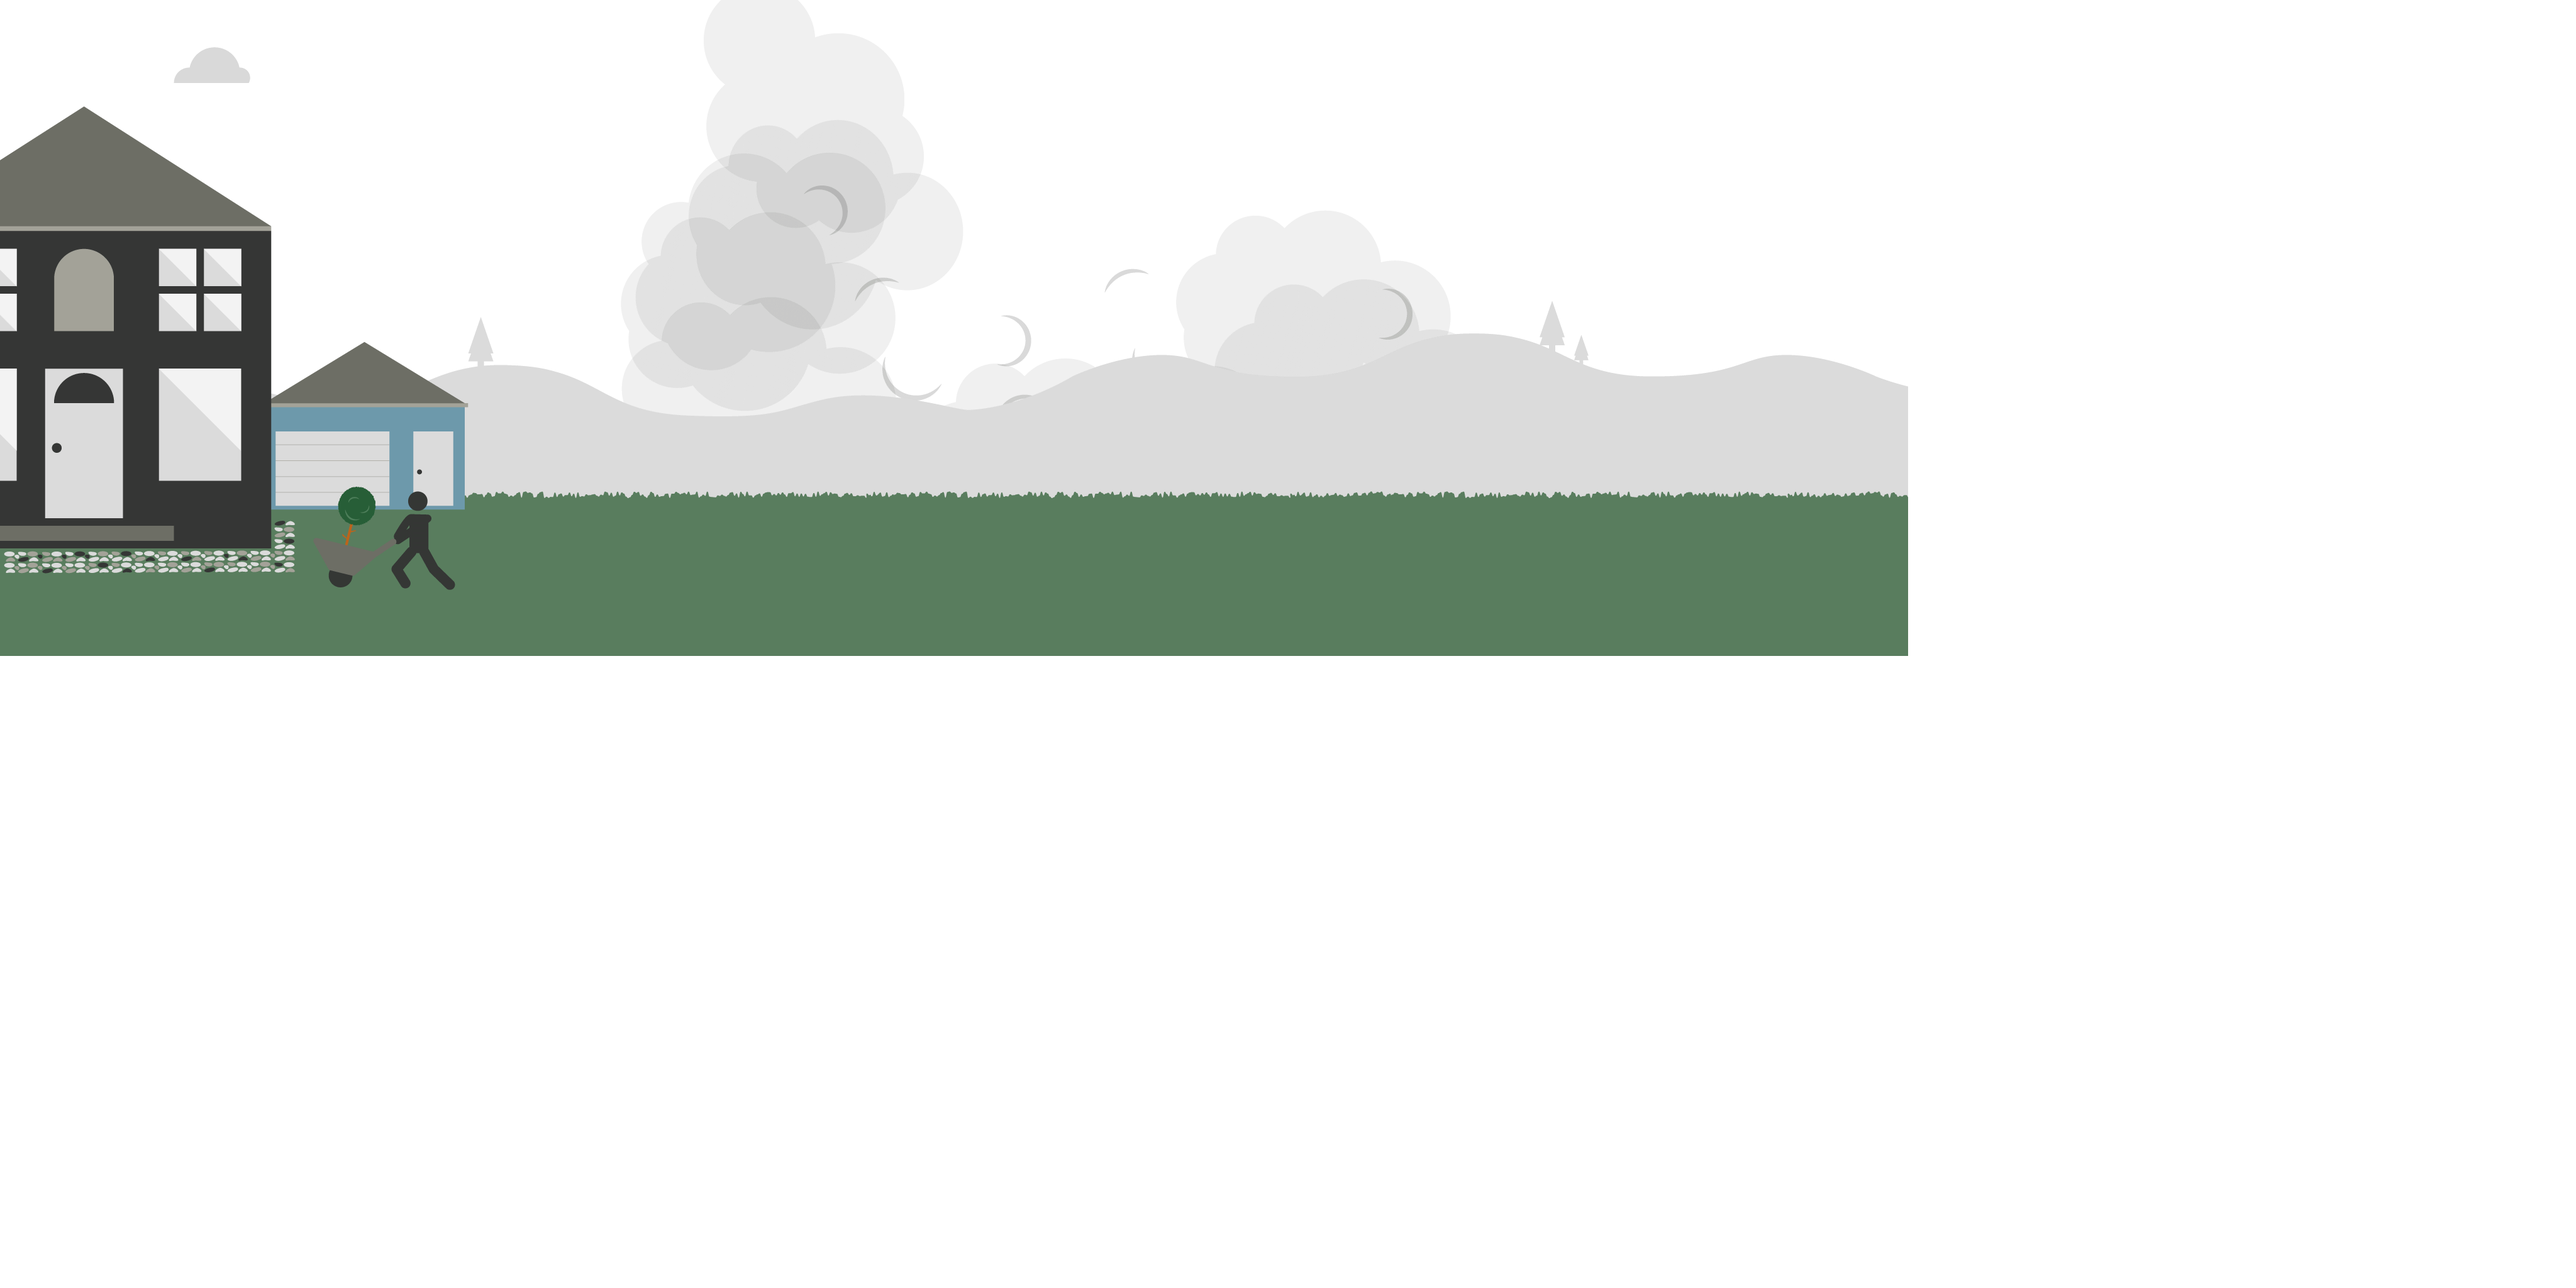
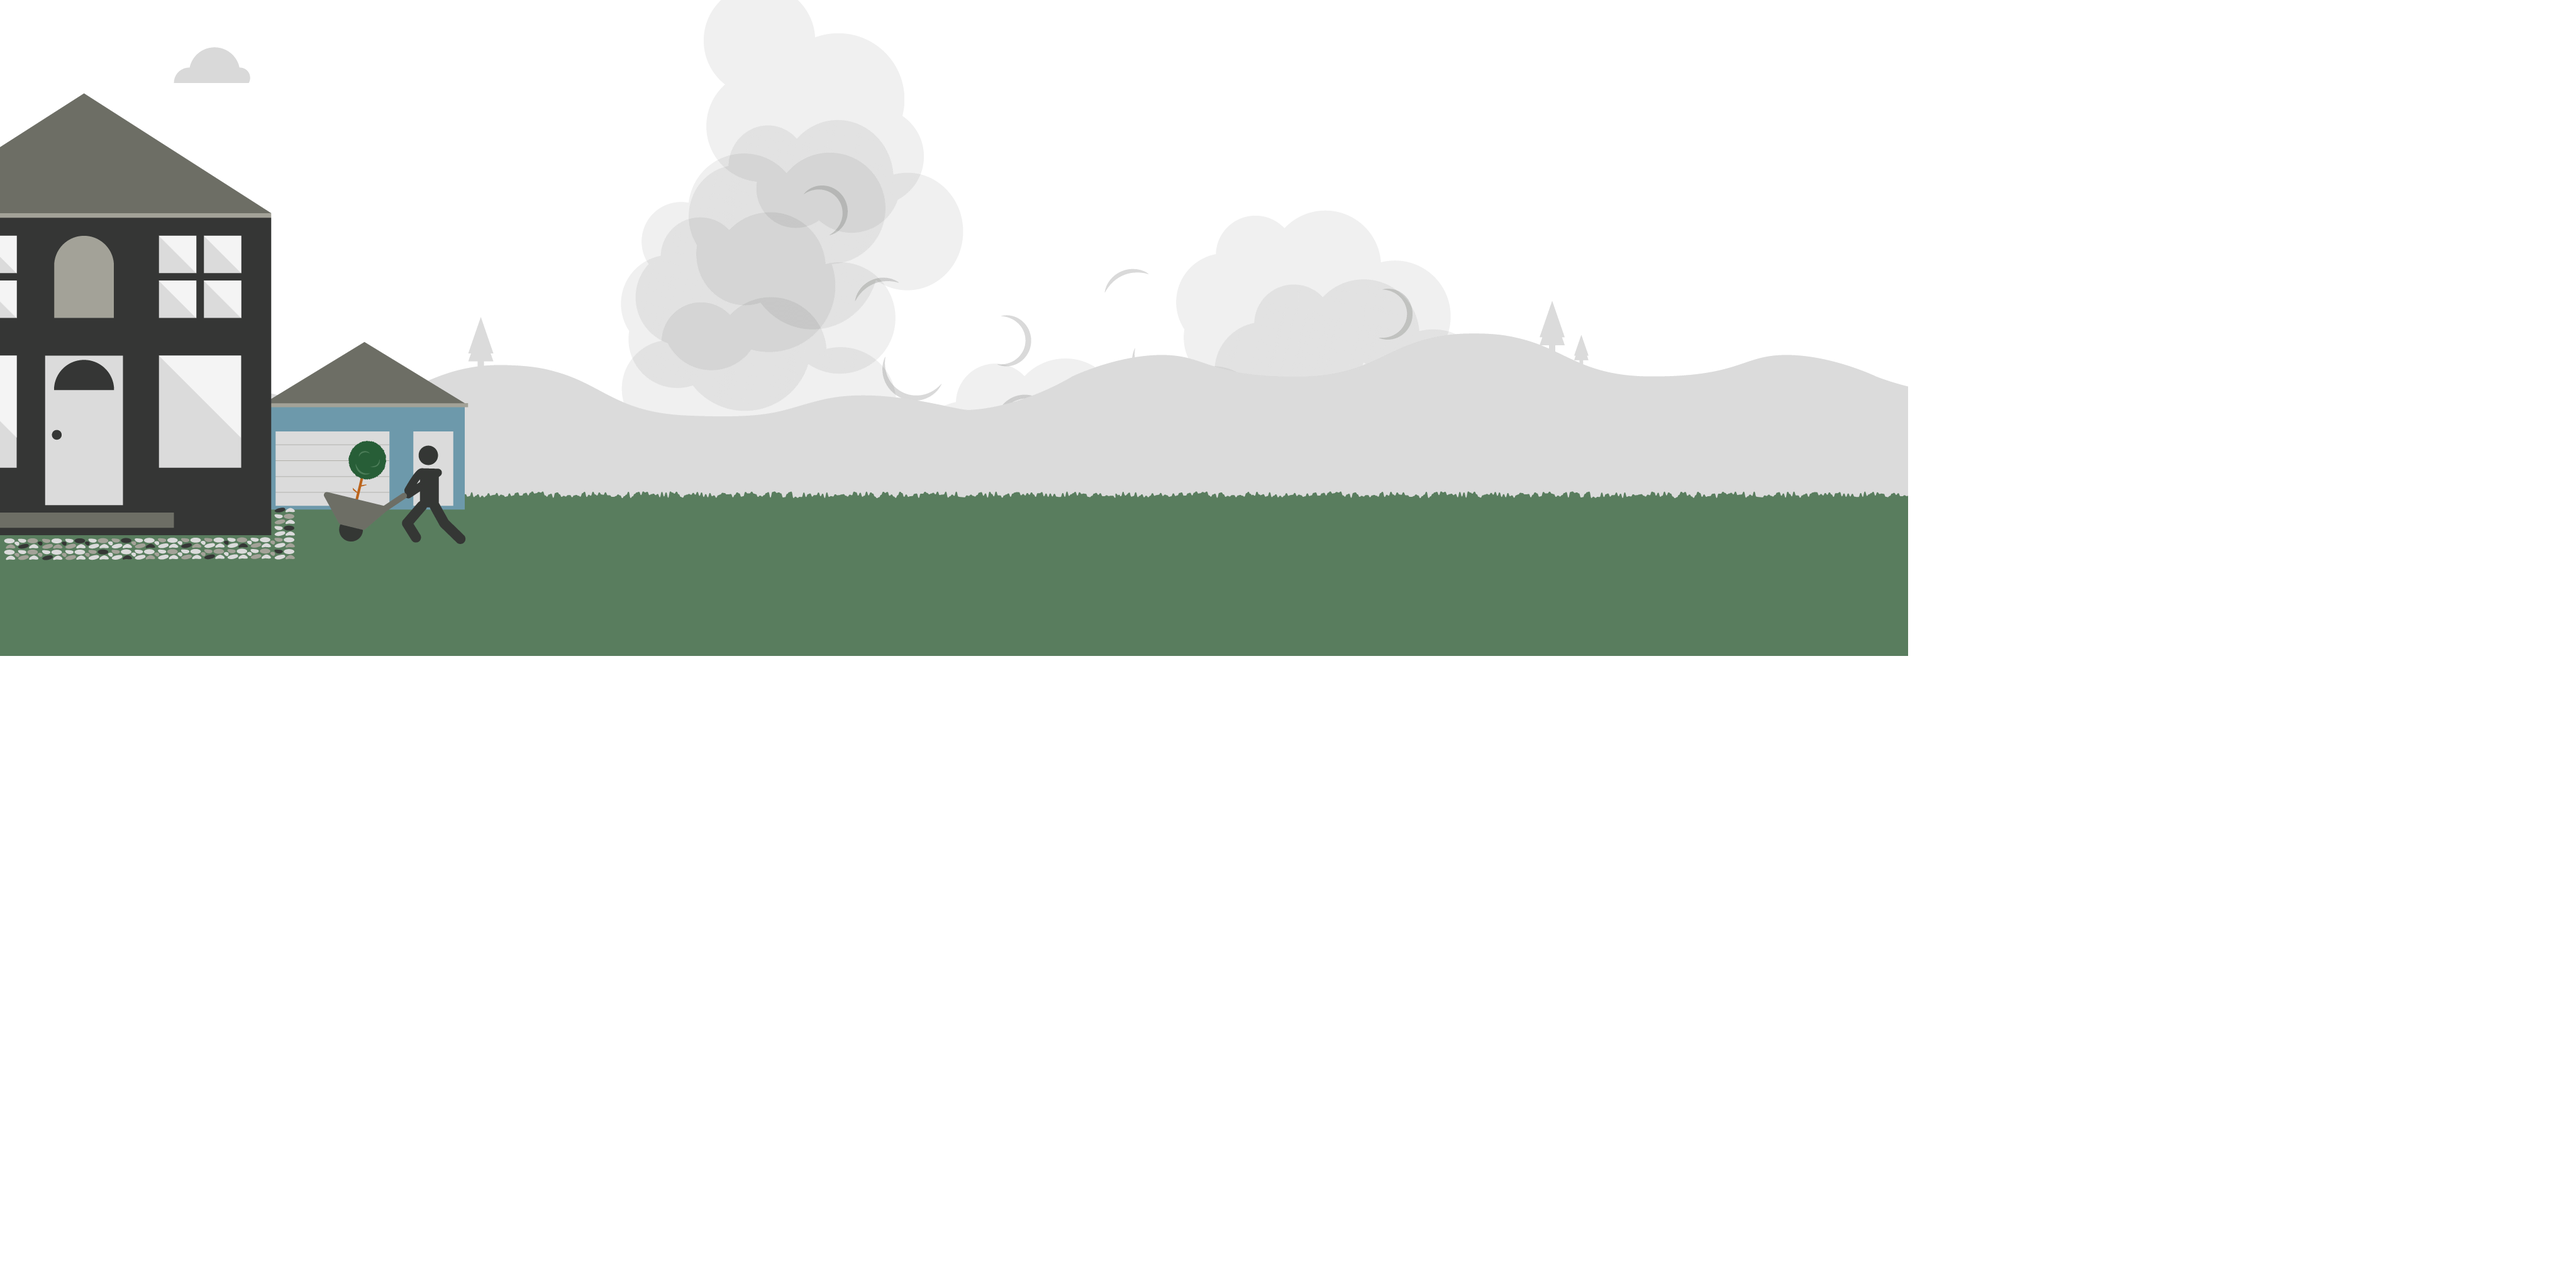
Add files via upload

diff --git a/dont/728x90/MOE265_Display_Dont_PrepRetarg_728x90.js b/dont/728x90/MOE265_Display_Dont_PrepRetarg_728x90.js
@@ -480,6 +480,13 @@ if (reversed == null) { reversed = false; }
 
 	this.timeline.addTween(cjs.Tween.get(this.instance_2).wait(71).to({_off:false},0).to({alpha:1},9).wait(64));
 
+	// foregrass
+	this.shape_1 = new cjs.Shape();
+	this.shape_1.graphics.f("#597D5E").s().p("Egr+ACRIAAkhMBX9AAAIAAEhg");
+	this.shape_1.setTransform(466.5,85.5);
+
+	this.timeline.addTween(cjs.Tween.get(this.shape_1).wait(144));
+
 	// smoke copy 3
 	this.instance_3 = new lib.Smokepuff();
 	this.instance_3.setTransform(278.05,73.8,0.683,0.6838,0,0,0,0.3,0.3);
@@ -528,25 +535,25 @@ if (reversed == null) { reversed = false; }
 
 	// bkgd
 	this.instance_9 = new lib.BkgdDont_728x90();
-	this.instance_9.setTransform(0,-140,0.24,0.24);
+	this.instance_9.setTransform(0,-121,0.24,0.24);
 
 	this.timeline.addTween(cjs.Tween.get(this.instance_9).wait(144));
 
 	// stageBackground
-	this.shape_1 = new cjs.Shape();
-	this.shape_1.graphics.f().s("rgba(0,0,0,0)").ss(1,1,1,3,true).p("Eg6bgIlMB03AAAIAARLMh03AAAg");
-	this.shape_1.setTransform(364,45);
-
 	this.shape_2 = new cjs.Shape();
-	this.shape_2.graphics.f("#FFFFFF").s().p("Eg6bAImIAAxLMB03AAAIAARLg");
+	this.shape_2.graphics.f().s("rgba(0,0,0,0)").ss(1,1,1,3,true).p("Eg6bgIlMB03AAAIAARLMh03AAAg");
 	this.shape_2.setTransform(364,45);
 
-	this.timeline.addTween(cjs.Tween.get({}).to({state:[{t:this.shape_2},{t:this.shape_1}]}).wait(144));
+	this.shape_3 = new cjs.Shape();
+	this.shape_3.graphics.f("#FFFFFF").s().p("Eg6bAImIAAxLMB03AAAIAARLg");
+	this.shape_3.setTransform(364,45);
+
+	this.timeline.addTween(cjs.Tween.get({}).to({state:[{t:this.shape_3},{t:this.shape_2}]}).wait(144));
 
 	this._renderFirstFrame();
 
 }).prototype = p = new lib.AnMovieClip();
-p.nominalBounds = new cjs.Rectangle(363.5,-95,365,284.9);
+p.nominalBounds = new cjs.Rectangle(363.5,-76,384.5,265.9);
 // library properties:
 lib.properties = {
 	id: '0957C5EC3B874C629166840920B09671',
@@ -556,7 +563,7 @@ lib.properties = {
 	color: "#FFFFFF",
 	opacity: 1.00,
 	manifest: [
-		{src:"images/MOE265_Display_Dont_PrepRetarg_728x90_atlas_P_1.png?1623259866439", id:"MOE265_Display_Dont_PrepRetarg_728x90_atlas_P_1"}
+		{src:"images/MOE265_Display_Dont_PrepRetarg_728x90_atlas_P_1.png?1623428658107", id:"MOE265_Display_Dont_PrepRetarg_728x90_atlas_P_1"}
 	],
 	preloads: []
 };
